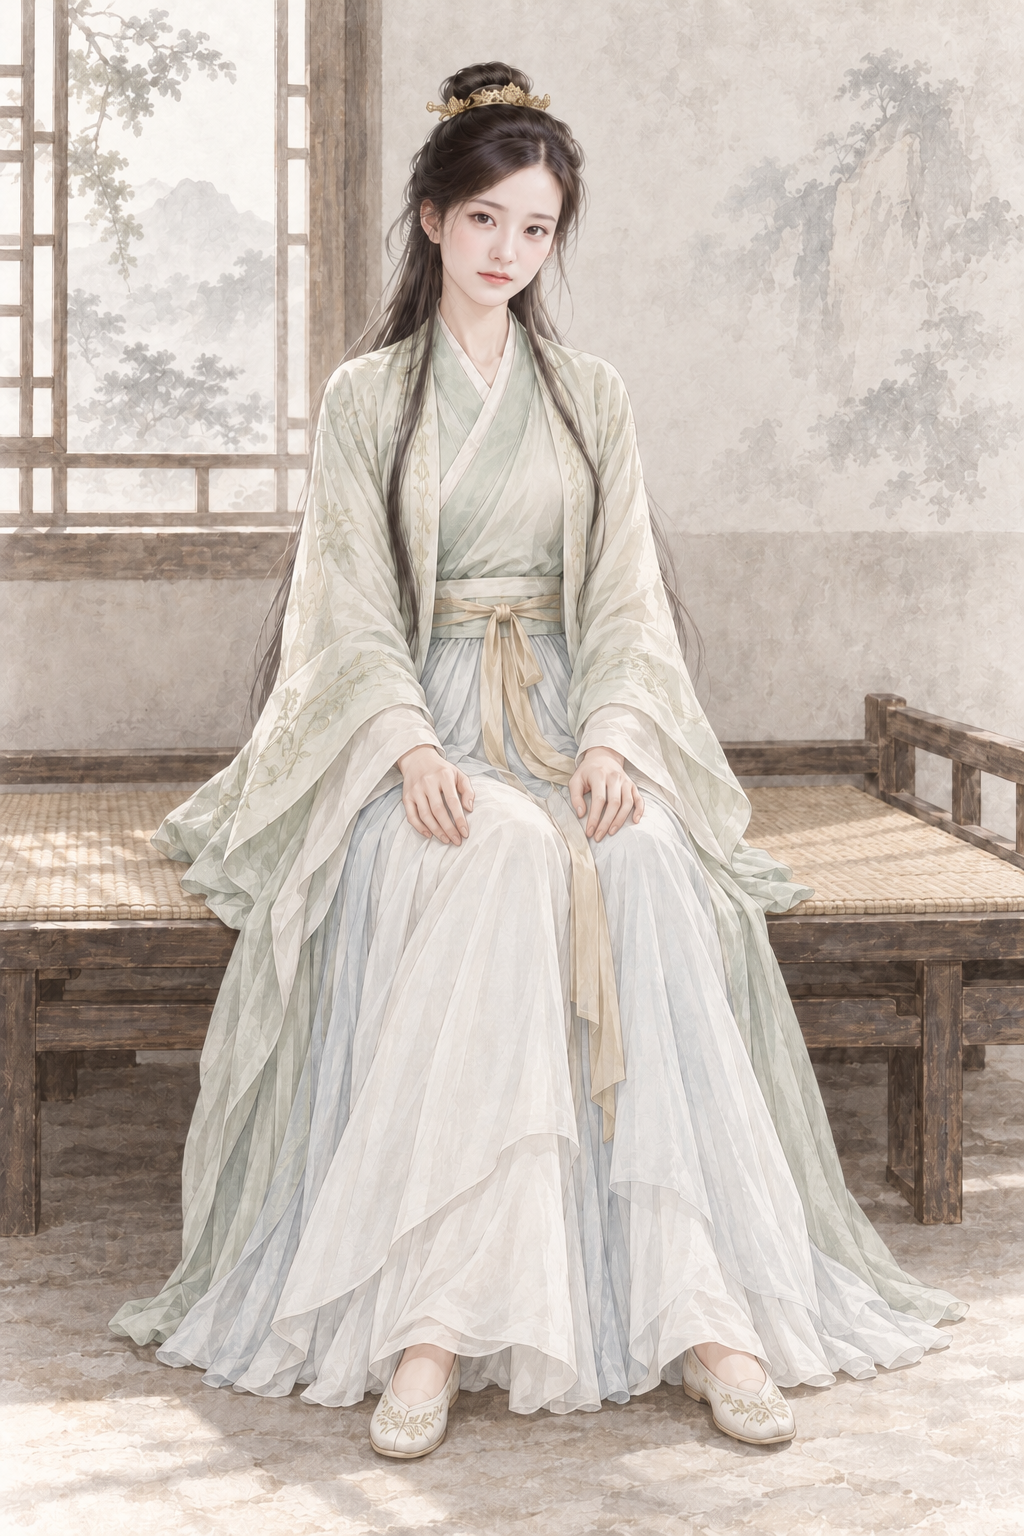
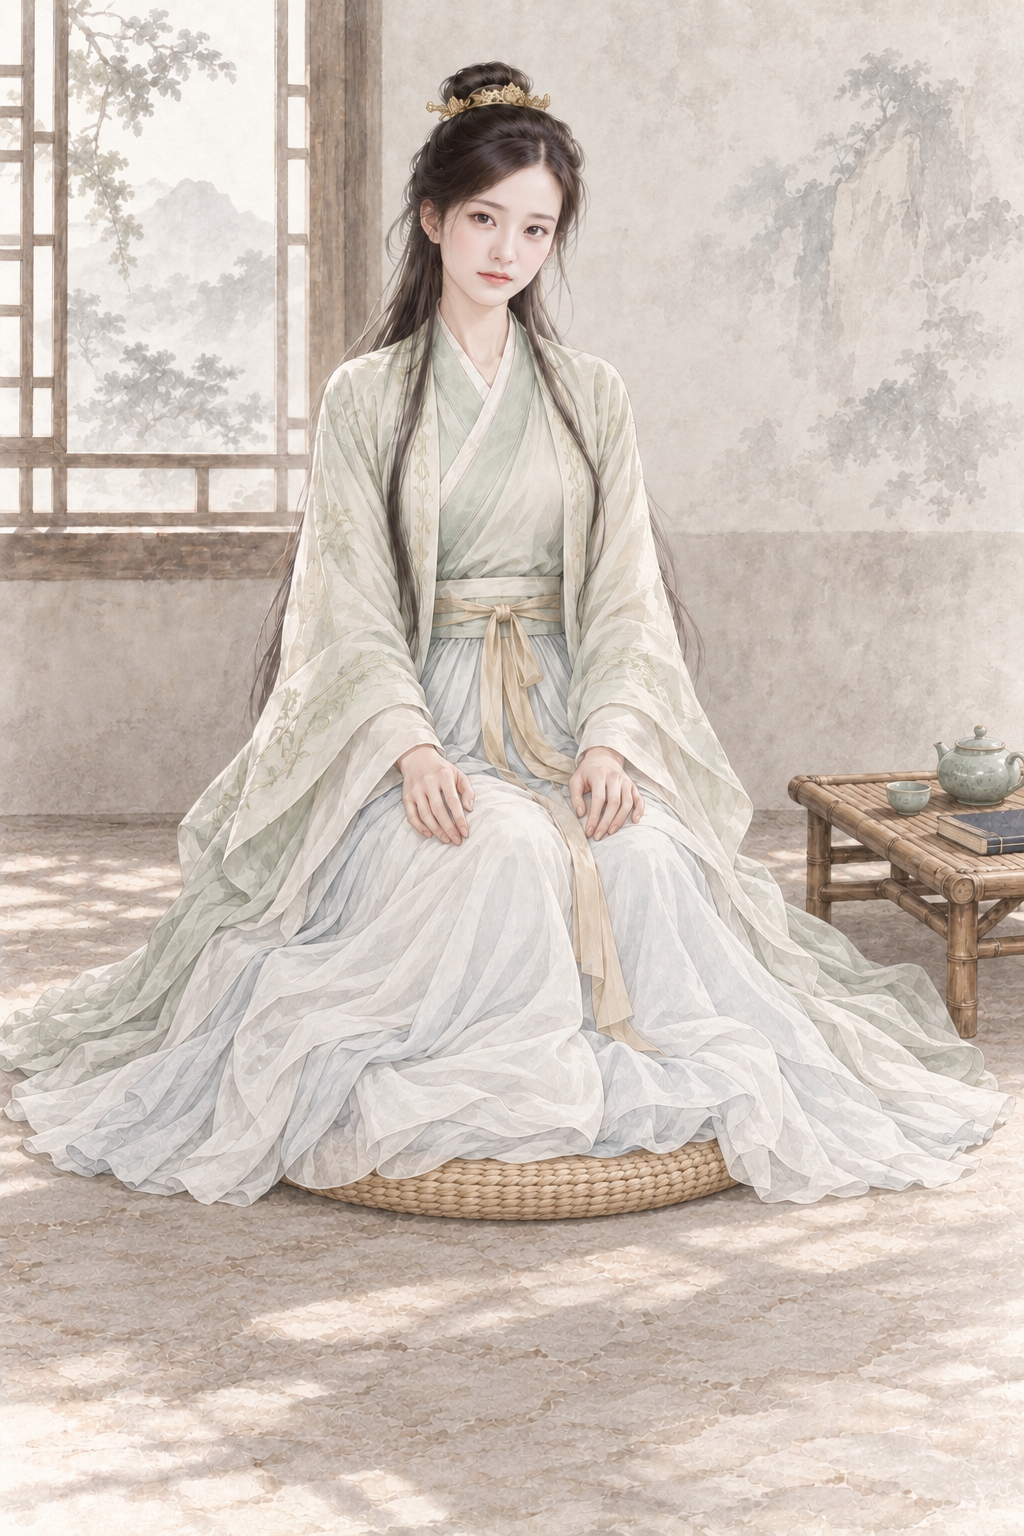
assets: AR-82 原著核对返修 黄蓉一灯疗伤改坐地面蒲团
原著摘句已同步提示词；已打开验图；蒙版外0像素变化。

Executed-By: Codex gpt-6.1-sol（AR-82）

Changed region(s): [[0.0, 0.4375, 1.0, 0.9688], [0.4688, 0.5, 0.5312, 0.5312]]

diff --git a/assets/default/prompts/characters/ch02-shediao/npc_huangrong__scene_yideng_heals_iron_palm_wound.md b/assets/default/prompts/characters/ch02-shediao/npc_huangrong__scene_yideng_heals_iron_palm_wound.md
@@ -106,3 +106,8 @@ Create a premium REALISTIC Chinese wuxia character illustration with a delicate 
 - 采用作者授权宽松自查；偏差如实记录，candidate不代表approved。
 - 源PNG通常为1024×1536 RGB；其他原生2:3尺寸如实登记，原字节保存，不裁切、重编码、放大或去除溯源。
 - 完整请求、实际参考哈希及旧版本备份见 `.agents/coord/portrait-generation/realism-20261001/por_npc_huangrong__ch02_youth_scene_yideng_heals_iron_palm_wound.prepared.json`。
+
+## 原著依据
+
+- 《射雕英雄传》第三十回 一灯大师：“一灯命黄蓉在中间一个蒲团上坐了”；https://www.xuges.com/wuxia/jinyong/sdyxz/213.htm
+- AR-82 返修约束（本节优先于历史提示词）：黄蓉疗伤必须坐在地面低矮蒲团上，双腿屈拢/盘坐在身前，裙摆横向铺在地面，不得保留椅子垂脚的高坐姿。去掉大木榻，身旁一张竹几；仅改变腰以下裙褶和坐姿以及榻所在环境，黄蓉头部位置、大小、头脸和上身衣服、双手位置全部原样。圆蒲团应水平贴地、在臀部下方，不能竖在背后像椅背。不要增加一灯或郭靖。
